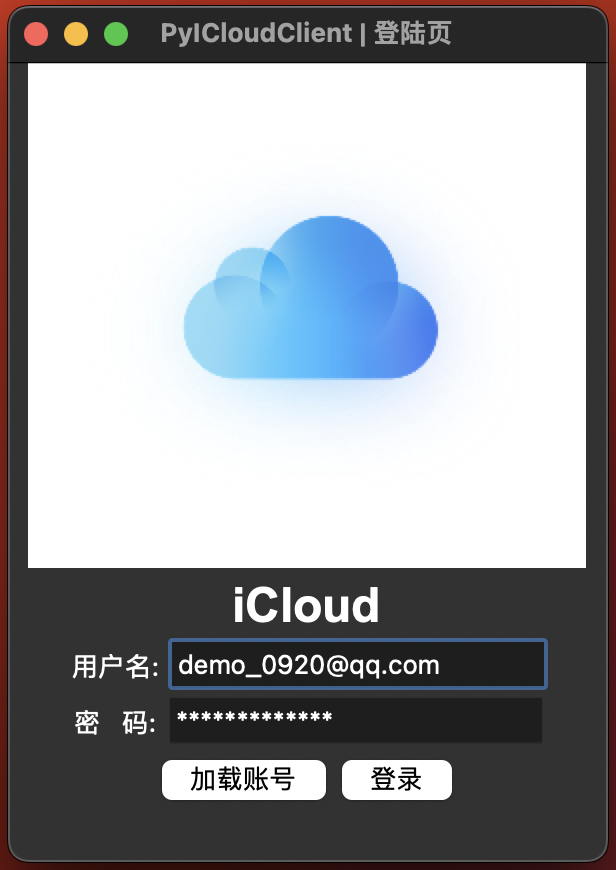
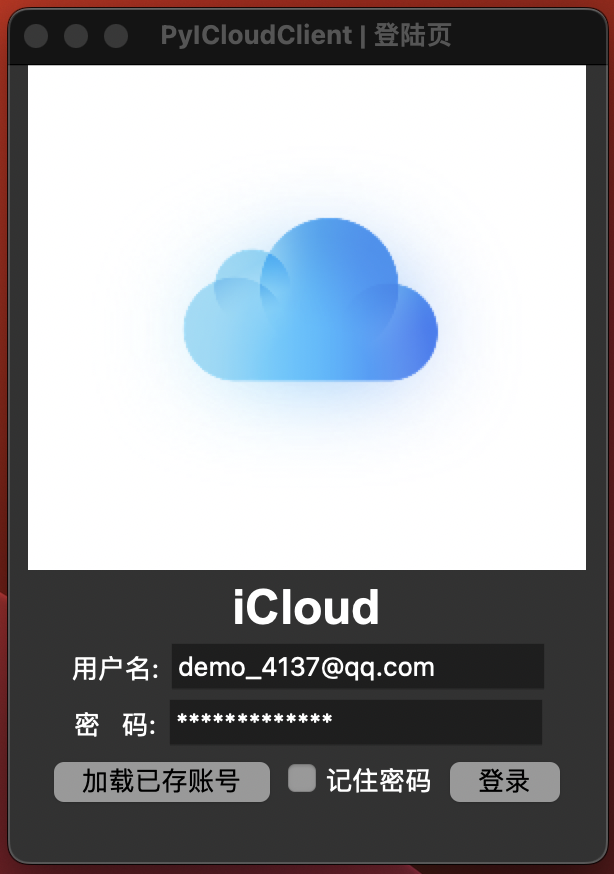
实现了记住密码功能,并把账号信息存储的持久化从JSON文件换成Sqlite来存储.优化了登陆成功后的注销逻辑,使其完美切回到登录页,形成了完整的闭环.

diff --git a/pages/login.py b/pages/login.py
@@ -6,17 +6,18 @@
 @Software: PyCharm
 @disc:
 ======================================="""
-import json
 import logging
 import time
 import tkinter as tk
 from tkinter import font as tkFont
+
 from core import PyiCloudService
 
 
 class LoginPage(tk.Frame):
     def __init__(self, master):
         super().__init__(master)
+        self.users = None
         self.message_label = None
         self.login_button = None
         self.load_account_btn = None
@@ -24,6 +25,8 @@ class LoginPage(tk.Frame):
         self.password_label = None
         self.username_entry = None
         self.username_label = None
+        self.remember_password = tk.BooleanVar()
+        self.remember_password.set(False)
         self.master = master
         self.create_widgets()
 
@@ -57,8 +60,16 @@ class LoginPage(tk.Frame):
         # 创建加载账号按钮和登录按钮
         button_frame = tk.Frame(self)
         button_frame.pack()
-        self.load_account_btn = tk.Button(button_frame, text="加载账号", command=self.load_account)
-        self.load_account_btn.pack(side=tk.LEFT)
+
+        self.load_account_btn = tk.Button(button_frame, text="加载已存账号", command=self.load_account)
+
+        self.master.db_cursor.execute("SELECT username,password FROM users;")
+        self.users = self.master.db_cursor.fetchall()
+        if len(self.users) > 0:
+            self.load_account_btn.pack(side=tk.LEFT)
+
+        tk.Checkbutton(button_frame, text="记住密码", variable=self.remember_password).pack(side=tk.LEFT)
+
         self.login_button = tk.Button(button_frame, text="登录", command=self.login)
         self.login_button.pack(side=tk.LEFT)
 
@@ -72,18 +83,25 @@ class LoginPage(tk.Frame):
         logging.info(f"[login] username: {username}, password: [{password}]")
         logging.info(f"CHINA_ACCOUNT:{china_account}")
         self.master.iService = PyiCloudService(self.master, username, password, china_account)
+        startedAt = time.time()
         while True:
             if self.master.iService.account.devices:
                 print("登陆成功!")
+                if self.remember_password.get():
+                    self.master.db_cursor.execute("INSERT OR REPLACE INTO users (username, password) VALUES (?, ?)",
+                                                  (username, password))
+                    self.master.db_conn.commit()
                 self.master.show_homepage(username)
                 break
             else:
                 print("还未登陆...")
-                time.sleep(2)
+                self.message_label.insert(0, f"正在登陆.....{time.time() - startedAt}s")
+                time.sleep(1)
 
     def load_account(self):
-        with open("accounts.json", "r") as f:
-            accounts = json.load(f)
-            for account in accounts:
-                self.username_entry.insert(0, account["username"])
-                self.password_entry.insert(0, account["password"])
+        for user in self.users:
+            print(user)
+            self.username_entry.delete(0, tk.END)  # 删除旧文本
+            self.username_entry.insert(0, user[0])
+            self.password_entry.delete(0, tk.END)
+            self.password_entry.insert(0, user[1])

diff --git a/main.py b/main.py
@@ -22,14 +22,12 @@ class PyICloudClient(tk.Tk):
         # 创建主窗口
         super().__init__()
         self.iService = None
+        self.db_conn, self.db_cursor = init_database()
         self.page_home = HomePage(self)
         self.page_login = LoginPage(self)
         self.title("PyICloudClient")
 
-        init_database()
-        self.reset_size(300, 400)
-        self.title("PyICloudClient | 登陆页")
-        self.page_login.pack(expand=True, fill=tk.BOTH)
+        self.show_login_page()
 
     def reset_size(self, width: int, height: int):
         screen_width = self.winfo_screenwidth()
@@ -39,16 +37,28 @@ class PyICloudClient(tk.Tk):
         y = (screen_height - height) // 2
         self.geometry(f"{width}x{height}+{x}+{y}")
 
+    def show_login_page(self):
+        """
+        显示登录页
+        """
+        self.page_home.pack_forget()  # 隐藏主页面
+        self.reset_size(300, 400)
+        self.title("PyICloudClient | 登陆页")
+        self.page_login.pack(expand=True, fill=tk.BOTH)
+
     def show_homepage(self, username):
+        """
+        显示主页
+        :param username:用户名
+        """
         self.page_login.pack_forget()  # 隐藏登录页面
         self.page_home.show(username)
-        # 创建主页窗口
         self.reset_size(1200, 600)
         self.title("PyICloudClient | 登陆页")
 
     def logout(self):
         self.page_home.destroy()  # 关闭主页窗口
-        self.ctx.deiconify()  # 显示登录窗口
+        self.show_login_page()
 
 
 if __name__ == '__main__':

diff --git a/core.py b/core.py
@@ -117,8 +117,18 @@ def login(ctx, username, password):
 
 def init_database():
     # 连接到数据库（如果不存在则会创建）
-    conn = sqlite3.connect("users.db")
+    conn = sqlite3.connect("data.db")
     c = conn.cursor()
     # 创建用户表
     c.execute('''CREATE TABLE IF NOT EXISTS users
-                     (id INTEGER PRIMARY KEY AUTOINCREMENT, username TEXT, password TEXT)''')
+                     (id INTEGER PRIMARY KEY AUTOINCREMENT, username TEXT unique , password TEXT)''')
+    # 创建媒体资源表
+    c.execute('''CREATE TABLE IF NOT EXISTS assets
+                                      (
+                                        recordName TEXT PRIMARY KEY, 
+                                        master_fields TEXT,
+                                        asset_fields TEXT,
+                                        size TEXT
+                                        )
+                                      ''')
+    return conn, c
